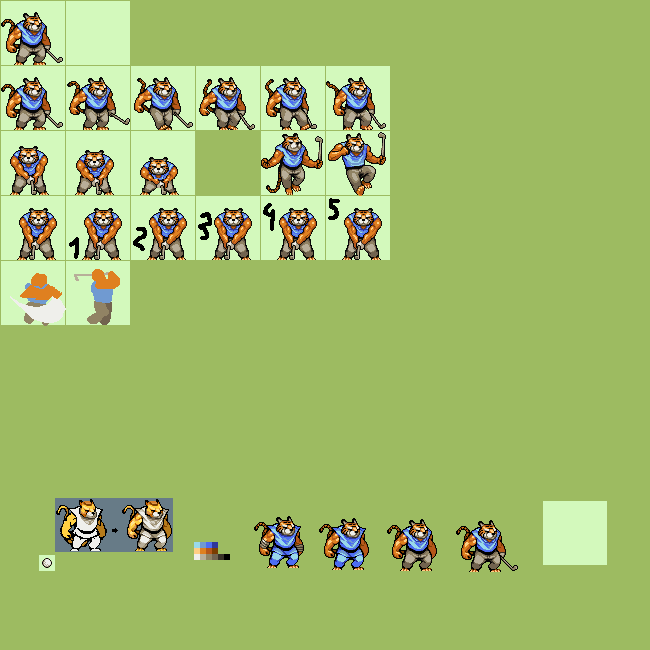
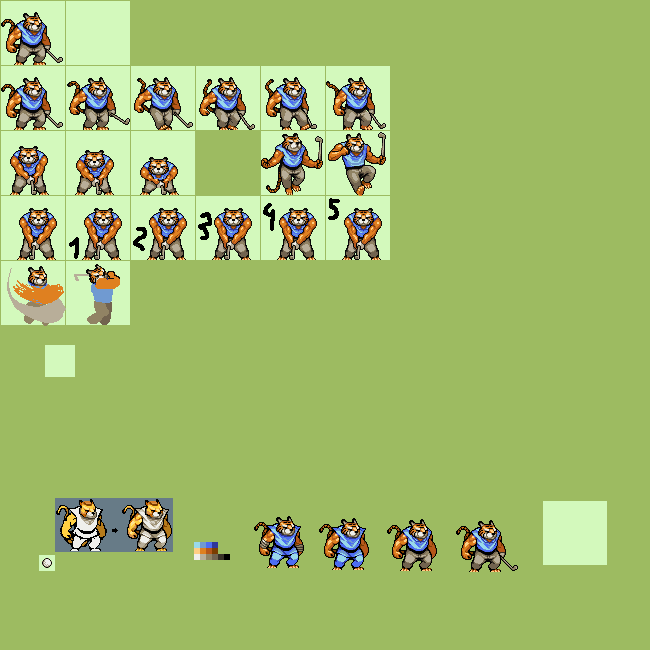
golfswing bugfix

Changed region(s): [[0.0, 0.4, 0.1231, 0.5846], [0.1231, 0.4, 0.1846, 0.4308]]

diff --git a/player.py b/player.py
@@ -16,8 +16,8 @@ anim_walk = pyganim.PygAnimation([
             (sheet.image_at((261, 66, 64, 64), alpha), 0.1),
             (sheet.image_at((326, 66, 64, 64), alpha), 0.1)])
 anim_jumpcharge = [sheet.image_at((  1, 131, 64, 64), alpha),
-            sheet.image_at(( 66, 131, 64, 64), alpha),
-            sheet.image_at((131, 131, 64, 64), alpha)]
+                   sheet.image_at(( 66, 131, 64, 64), alpha),
+                   sheet.image_at((131, 131, 64, 64), alpha)]
 anim_jump = sheet.image_at((261,131,64,64), alpha)
 anim_fall = sheet.image_at((326,131,64,64), alpha)
 anim_golfcharge = pyganim.PygAnimation([
@@ -27,9 +27,8 @@ anim_golfcharge = pyganim.PygAnimation([
             (sheet.image_at((196, 196, 64, 64), alpha), 0.2),
             (sheet.image_at((261, 196, 64, 64), alpha), 0.2),
             (sheet.image_at((326, 196, 64, 64), alpha), 0.2)])
-anim_golf = pyganim.PygAnimation([
-            (sheet.image_at(( 1, 261, 64, 64), alpha), 0.1),
-            (sheet.image_at((66, 261, 64, 64), alpha), 0.1)])
+anim_golf = [sheet.image_at(( 1, 261, 64, 64), alpha),
+             sheet.image_at((66, 261, 64, 64), alpha)]
 
 sfx_jump = pygame.mixer.Sound("sfx_jump.wav")
 
